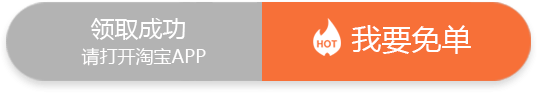
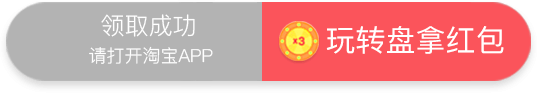
update images

diff --git a/public/test/main/css/style.css b/public/test/main/css/style.css
@@ -922,7 +922,7 @@ p.vip-life {
   color: #9b9b9b;
   text-align: justify;
   line-height: 20px;
-  padding: 15px 20px;
+  padding: 0px 20px;
 }
 
 #promotion .instructions img{
@@ -1195,4 +1195,11 @@ a.cutBtn-success, a.cutBtn-success:link, a.cutBtn-success:visited, a.cutBtn-succ
    height: 90%;
    cursor: pointer;
 
+}
+
+.caption_redeem_angpao {
+  position: absolute;
+  margin-top: -0.62rem;
+  width: 2.5rem;
+  margin-left: 0.1rem;
 }

diff --git a/resources/views/staradmin/client/home3.blade.php b/resources/views/staradmin/client/home3.blade.php
@@ -216,13 +216,13 @@
 					<div class="div_product_details">淘宝价 ￥<span class="span_price"></span> | <span class="span_highlight">优惠卷 ￥<span class="span_voucher_price"></span></span></div>
 					
 
-					
+					<img class="caption_redeem_angpao" src="{{ asset('/client/images/caption_redeem_angpao.png') }}" />
 					<div id="button-wrapper">
 						<img class="btn-product-details" src="{{ asset('/client/images/btn-redeem.png') }}" />
 						<div id="btn-copy"></div>
 						<div id="btn-voucher" class="freeVoucherBtn"></div>
 					</div>
-					<h4 style="padding:5px;">优惠卷代码 <span id="cut" class="copyvoucher">￥K8454DFGH45H</span></h4>
+					<h4 style="font-size: 0;">优惠卷代码 <span id="cut" class="copyvoucher">￥K8454DFGH45H</span></h4>
 
 			</div>
 		</div>
@@ -268,12 +268,12 @@
 												<img src="/client/images/list-image.png" width="14px" height="18px" />
 												<span class="highlight">新人红包</span>
 												<img src="/client/images/list-label.png" width="42px" height="14px" /></li>
-											<li style="padding-bottom: 10px">注册送2次幸运转盘，99%概率可赚30元免单红包。</li>
+											<li style="padding-bottom: 10px">注册送2次免单转盘，每次可赚15元，2次可以赚30元。</li>
 											<li>
 												<img src="/client/images/list-image.png" width="14px" height="18px" />
-												<span class="highlight">分享红包</span>
+												<span class="highlight">分享越多 赚越多</span>
 												<img src="/client/images/list-label.png" png" width="42px" height="14px" /></li>
-											<li>每邀请1位认证好友，送1次幸运转盘，99%概率赚15元，邀请10个赚150元。</li>
+											<li>邀请好友注册送1次转盘，你邀请的好友每邀请1个人，你还能获得1次转盘。<br>如果你邀请10个好友，每个好友也邀请10个。你就有110次转盘机会，赚1650元。</li>
 										</ul>
 									</div>
 									<a href="/arcade">
@@ -458,6 +458,7 @@
 
 			var clipboard = new ClipboardJS('#btn-copy', {
 				target: function () {
+					$('.caption_redeem_angpao').hide();
 					return document.querySelector('#cut');
 				}
 			});
